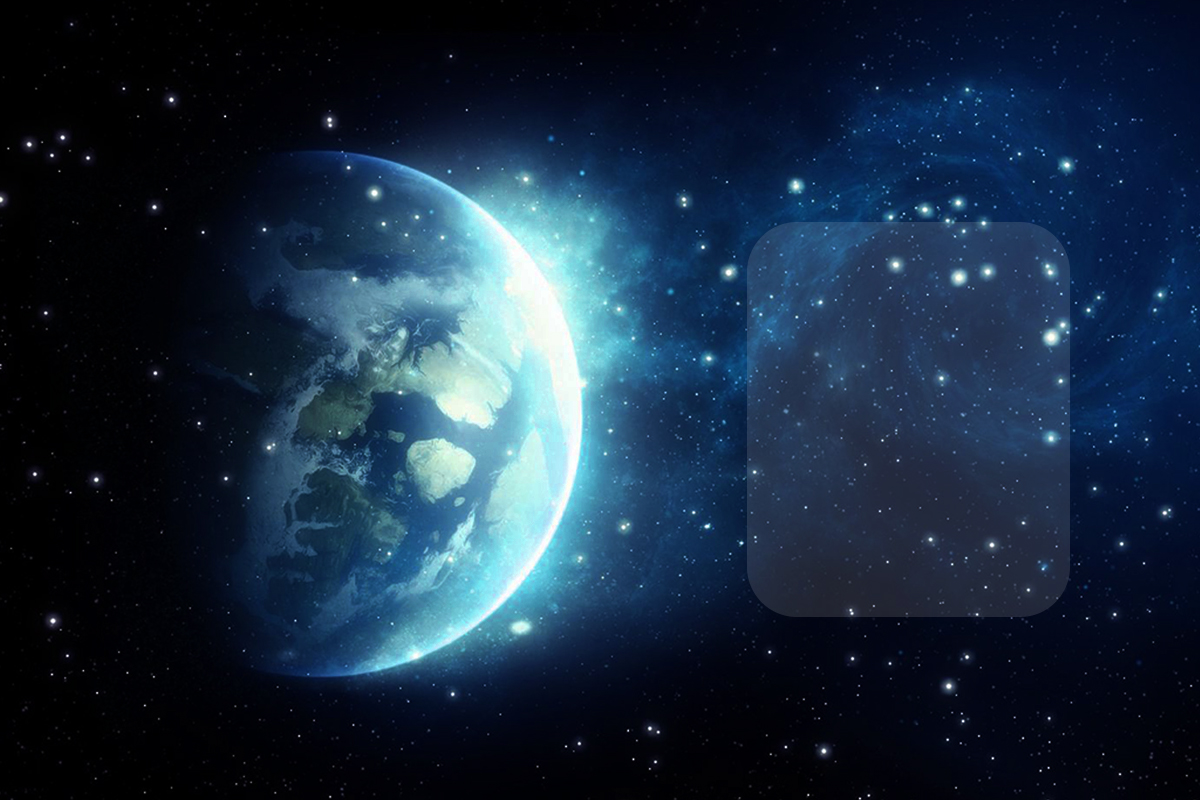
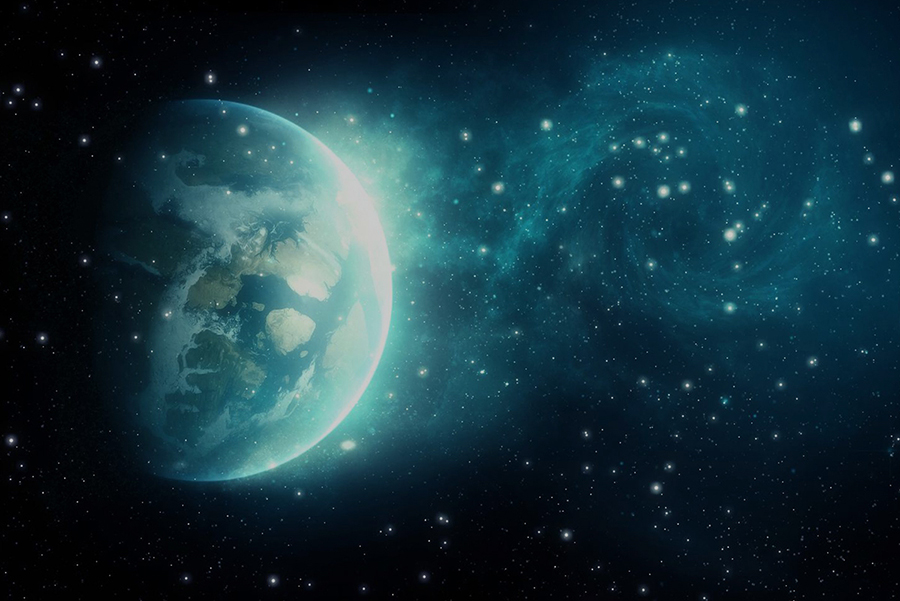
1.修改了主窗口大小和按钮 2.增加了ModeWin

diff --git a/src/gui/mainwin.css b/src/gui/mainwin.css
@@ -1,6 +1,7 @@
 .root{
 	-fx-background-color: transparent ;
-	-fx-background-image: url(img/main_win_bg.png);
+	-fx-background-image: url(img/main_win_bg.jpg);
+	-fx-background-radius: 50;
 }
 .button{
 	-fx-background-color: rgba(255,255,255,0.4);
@@ -24,4 +25,10 @@
 }
 #exitBtn:hover{
 	-fx-background-image: url(img/exit_hover.png);
+}
+#box{
+	-fx-background-color: rgba(255,255,255,0.3);
+	-fx-background-radius: 50;
+	-fx-spacing: 50;
+	-fx-padding: 30;
 }

diff --git a/src/gui/modewin.css b/src/gui/modewin.css
@@ -1,0 +1,16 @@
+.root{
+    -fx-background-color: transparent;
+    -fx-background-image: url("img/modewin.png");
+}
+.button{
+    -fx-background-color: rgba(255,255,255,0.4);
+    -fx-effet: dropshadow(gaussian,rgba(0,233,222,0.2),5,5,0,0) ;
+    -fx-border-radius: 23;
+    -fx-background-radius: 23;
+}
+.button:hover{
+    -fx-background-color: rgba(255,255,255,1);
+}
+.button:pressed{
+    -fx-background-color: rgba(255,255,255,0.5);
+}

diff --git a/src/gui/MainWinControllor.java b/src/gui/MainWinControllor.java
@@ -51,30 +51,20 @@ public class MainWinControllor {
 	@FXML
 	private void onStartBtnClick(){
 
-		Data.mode=1;
 		Platform.runLater(()->{
 			startBtn.getScene().getWindow().hide();
-			Data.mode=1;
-			LevelWin levelWin=new LevelWin();
+			new ModeWin();
 		});
+
+//		Data.mode=1;
+//		Platform.runLater(()->{
+//			startBtn.getScene().getWindow().hide();
+//			Data.mode=1;
+//			LevelWin levelWin=new LevelWin();
+//		});
 
 
 	}
-
-
-    public void onStoryBtnClick(ActionEvent actionEvent) {
-		Data.mode=0;
-    	Platform.runLater(()->{
-			try {
-				startBtn.getScene().getWindow().hide();
-				Data.mode=0;
-				ChapterSelectWin chapter=new ChapterSelectWin();
-			} catch (IOException e) {
-				// TODO Auto-generated catch block
-				e.printStackTrace();
-			}
-		});
-    }
 
     public void onAboutBtnClick(ActionEvent actionEvent) {
 		Platform.runLater(()->{
@@ -82,4 +72,11 @@ public class MainWinControllor {
 			new AboutWin();
 		});
     }
+
+
+    public void onAchievementBtnClick(ActionEvent actionEvent) {
+		new AchievementWin();
+    }
+
+
 }

diff --git a/src/gui/ModeWinController.java b/src/gui/ModeWinController.java
@@ -1,0 +1,40 @@
+package gui;
+
+import javafx.application.Platform;
+import javafx.event.ActionEvent;
+import javafx.scene.control.Button;
+
+import java.io.IOException;
+
+/**
+ * Created by wenxi on 2017/5/18.
+ */
+public class ModeWinController {
+
+
+    public Button storyBtn;
+
+    public void onStoryBtnCLick(ActionEvent actionEvent) {
+        Data.mode=0;
+        Platform.runLater(()->{
+            try {
+                storyBtn.getScene().getWindow().hide();
+                ChapterSelectWin chapter=new ChapterSelectWin();
+            } catch (IOException e) {
+                // TODO Auto-generated catch block
+                e.printStackTrace();
+            }
+        });
+    }
+
+    public void onBirthdayBtnClick(ActionEvent actionEvent) {
+        Data.mode=1;
+		Platform.runLater(()->{
+			storyBtn.getScene().getWindow().hide();
+			LevelWin levelWin=new LevelWin();
+		});
+    }
+
+    public void onEndlessBtnCLick(ActionEvent actionEvent) {
+    }
+}

diff --git a/src/gui/ModeWin.java b/src/gui/ModeWin.java
@@ -1,0 +1,35 @@
+package gui;
+
+import javafx.fxml.FXMLLoader;
+import javafx.scene.Scene;
+import javafx.scene.layout.AnchorPane;
+import javafx.scene.paint.Color;
+import javafx.stage.Stage;
+import javafx.stage.StageStyle;
+
+import java.io.IOException;
+
+/**
+ * Created by wenxi on 2017/5/18.
+ */
+public class ModeWin extends Stage {
+
+    AnchorPane root;
+
+    public ModeWin(){
+        try {
+            root= FXMLLoader.load(getClass().getResource("ModeWin.fxml"));
+        } catch (IOException e) {
+            e.printStackTrace();
+        }
+
+        Scene scene=new Scene(root, 600,400);
+        scene.getStylesheets().add(getClass().getResource("modewin.css").toExternalForm());
+        scene.setFill(Color.TRANSPARENT);
+
+        this.setScene(scene);
+        this.initStyle(StageStyle.TRANSPARENT);
+        this.show();
+    }
+
+}

diff --git a/src/achievements/AchievementsManager.java b/src/achievements/AchievementsManager.java
@@ -51,11 +51,11 @@ public class AchievementsManager
 			String[] spl = line.split("@");
 			
 
-			for (int i = 0; i < ACHIEVEMENT_NUMBER; i++) 
+			//for (int i = 0; i < ACHIEVEMENT_NUMBER; i++)
 				for(int m = 0; m < HEIGHT;m++)
 				for(int n = 0; n < WIDTH; n++)
 				
-				if(Integer.parseInt(spl[i]) == 1)
+				if(Integer.parseInt(spl[m*WIDTH+n]) == 1)
 				{
 					AchievementsList[m][n].setAchieved(true);
 				}

diff --git a/src/gui/MainWin.java b/src/gui/MainWin.java
@@ -23,7 +23,7 @@ public class MainWin extends Stage{
 
 		try {
 			root=FXMLLoader.load(getClass().getResource("MainWin.fxml"));
-			Scene scene=new Scene(root,1200,800);
+			Scene scene=new Scene(root,900,600);
 			scene.getStylesheets().add(getClass().getResource("mainwin.css").toExternalForm());
 			this.initStyle(StageStyle.TRANSPARENT);
 			this.setScene(scene);

diff --git a/src/gui/Main.java b/src/gui/Main.java
@@ -20,7 +20,7 @@ public class Main extends Application{
 				// TODO Auto-generated method stub
 				try {
 					new WelcomeWin().start(new Stage());
-					new AchievementWin();
+					//new AchievementWin();
 //					Data.setLimit(12);
 //					new GameWin();
 				} catch (Exception e) {
